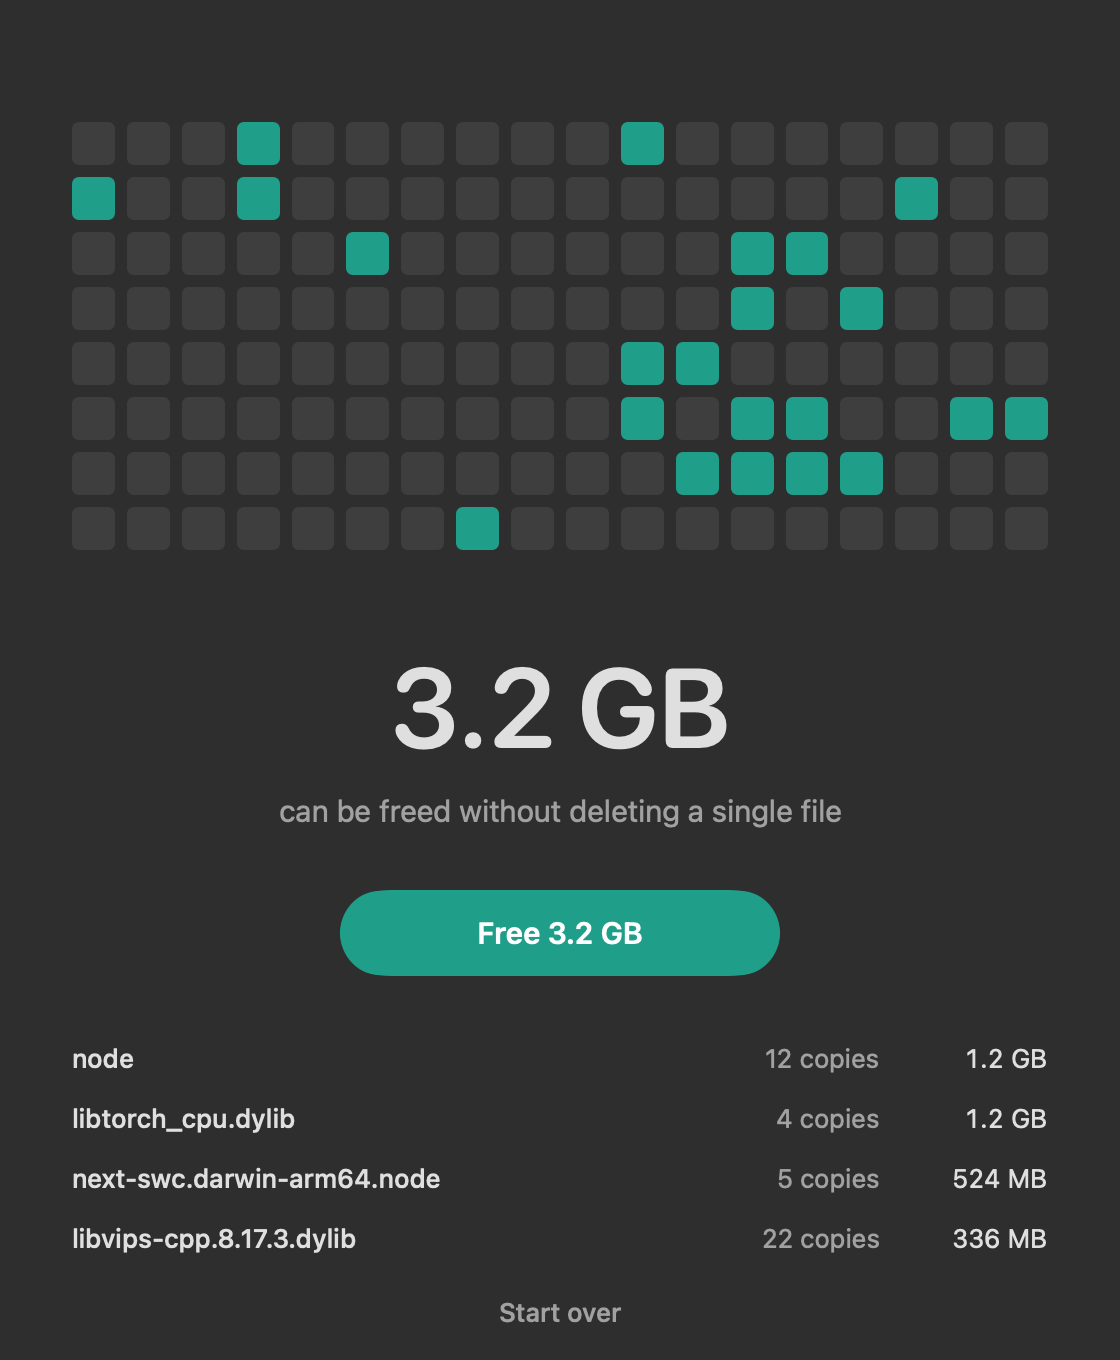
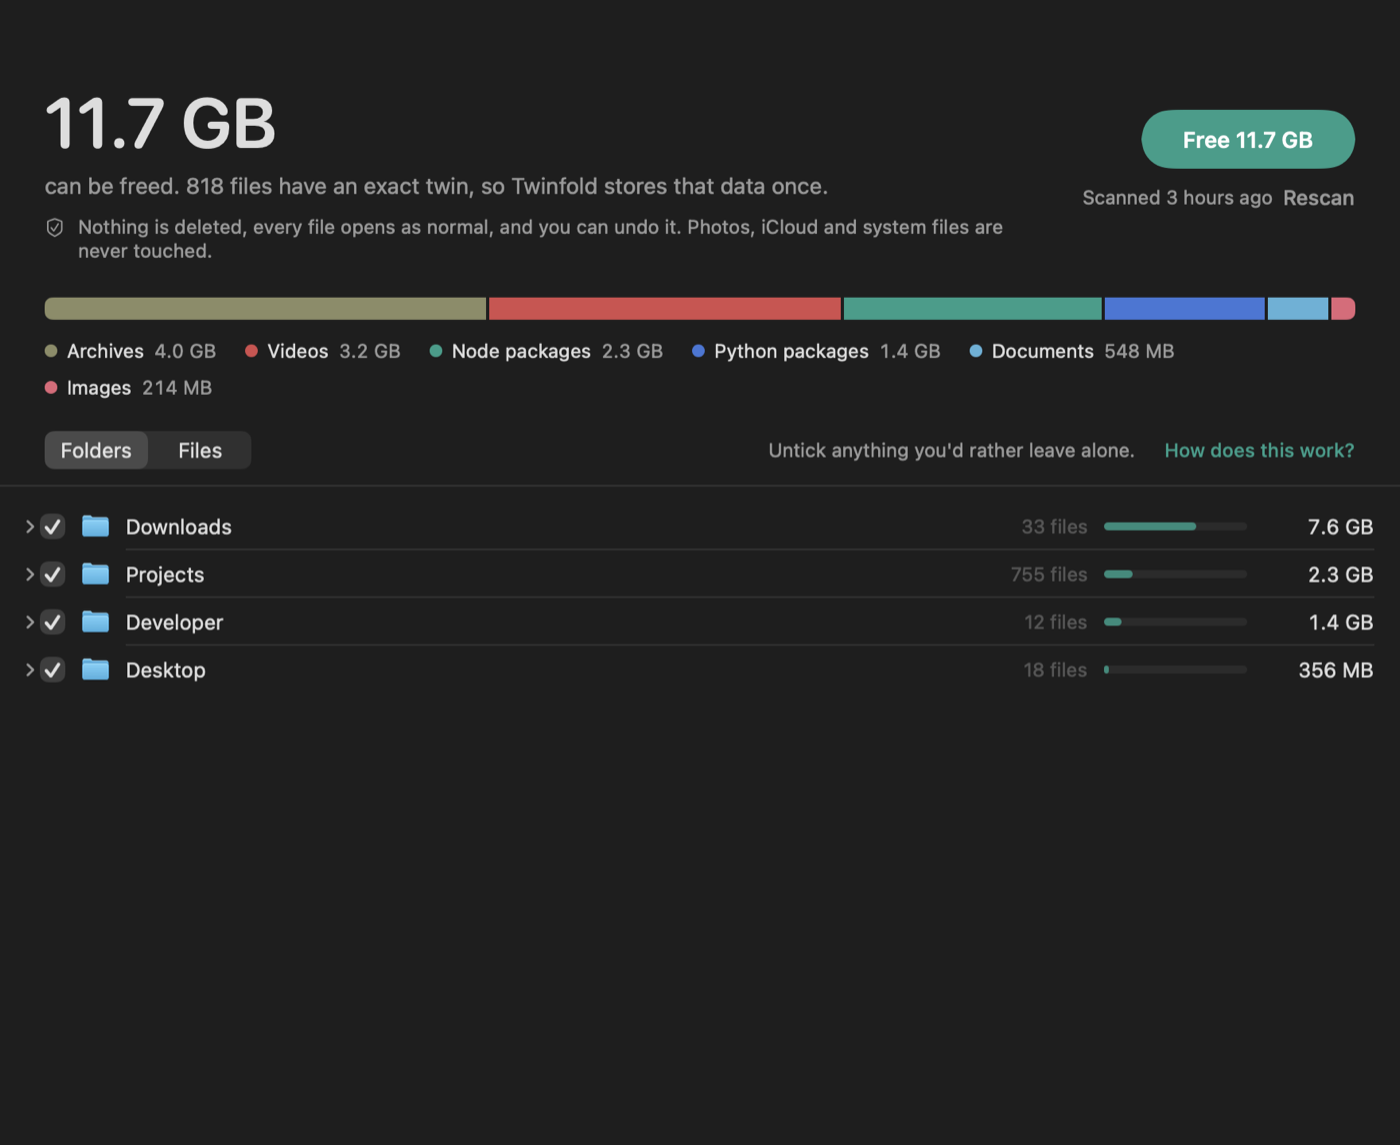
Second round of user-test fixes; keep awake while working
- Results say what sharing means in plain words and mention undo before the decision.
- Rows show how many identical files and the size of each; folder rows count files.
- Filter note says what Free still covers; help text is easier to read; popover links the source.
- Keep the Mac awake during scans and folds; ignore a fold's leftover temporary file.
- README screenshots now use demo data.

diff --git a/Sources/TwinfoldApp/Views.swift b/Sources/TwinfoldApp/Views.swift
@@ -209,11 +209,11 @@ struct ResultsView: View {
                     Text(Format.bytes(model.selectedBytes))
                         .font(.system(size: 44, weight: .semibold, design: .rounded))
                     Text(model.selectedBytes < model.totalBytes
-                        ? "selected of \(Format.bytes(model.totalBytes)) found. \(Format.count(model.selected.count, "identical file", "identical files")) will share space."
-                        : "can be freed by letting \(Format.count(model.selected.count, "identical file", "identical files")) share space.")
+                        ? "selected of \(Format.bytes(model.totalBytes)) found. \(Format.count(model.selected.count, "file has", "files have")) an exact twin; Twinfold stores that data once."
+                        : "can be freed. \(Format.count(model.selected.count, "file has", "files have")) an exact twin, so Twinfold stores that data once.")
                         .font(.system(size: 14))
                         .foregroundStyle(Color.quiet)
-                    Label("Every file stays where it is. Photos and Music libraries, iCloud and system files are never touched.",
+                    Label("Nothing is deleted, every file opens as normal, and you can undo it. Photos, iCloud and system files are never touched.",
                           systemImage: "checkmark.shield")
                         .font(.system(size: 12))
                         .foregroundStyle(Color.quiet)
@@ -235,7 +235,7 @@ struct ResultsView: View {
                     HStack(spacing: 6) {
                         if let date = model.scannedAt {
                             Text("Scanned \(date.formatted(.relative(presentation: .named)))")
-                                .foregroundStyle(.tertiary)
+                                .foregroundStyle(Color.quiet)
                         }
                         QuietButton(title: "Rescan") { model.scan() }
                     }
@@ -264,9 +264,9 @@ struct ResultsView: View {
                 Spacer()
                 Text(model.kindFilter == nil
                     ? "Untick anything you'd rather leave alone."
-                    : "Showing \(model.kindFilter!.rawValue.lowercased()) only. Free still covers everything ticked.")
+                    : "Showing \(model.kindFilter!.rawValue.lowercased()) only. Free still covers all \(Format.bytes(model.selectedBytes)) ticked.")
                     .font(.system(size: 12))
-                    .foregroundStyle(.tertiary)
+                    .foregroundStyle(model.kindFilter == nil ? Color.quiet : Color.primary)
                 HowItWorksButton()
             }
             .padding(.horizontal, 28)
@@ -347,7 +347,7 @@ struct FolderRow: View {
                 .truncationMode(.middle)
                 .foregroundStyle(included ? Color.primary : Color.quiet)
             Spacer(minLength: 16)
-            Text(Format.count(node.copies, "copy", "copies"))
+            Text(Format.count(node.copies, "file", "files"))
                 .font(.system(size: 12))
                 .foregroundStyle(.tertiary)
             SizeBar(fraction: Double(node.bytes) / Double(total), muted: !included)
@@ -438,7 +438,7 @@ struct FileGroupRow: View {
                 }
                 .foregroundStyle(included ? Color.primary : Color.quiet)
                 Spacer(minLength: 16)
-                Text("\(Format.count(group.clusters.count - 1, "copy", "copies")) × \(Format.bytes(group.size))"
+                Text("\(group.files.count) identical · \(Format.bytes(group.size)) each"
                     + (group.files.count > group.clusters.count
                         ? " · \(group.files.count - group.clusters.count) already sharing" : ""))
                     .font(.system(size: 12).monospacedDigit())
@@ -498,9 +498,9 @@ struct DoneView: View {
                     .controlSize(.large)
                 PrimaryButton(title: "Done") { model.reset() }
             }
-            Text("Undo gives every file its own copy of its data again.")
+            Text("Undo gives every file its own copy again, which uses the space again.")
                 .font(.system(size: 12))
-                .foregroundStyle(.tertiary)
+                .foregroundStyle(Color.quiet)
         }
     }
 }
@@ -569,6 +569,8 @@ struct HowItWorks: View {
             Text("Good to know: after sharing, deleting one copy frees less space than Finder shows, because its twins still use that data.")
             Text("Changed your mind? Undo gives every file its own copy again.")
                 .foregroundStyle(Color.quiet)
+            Link("Twinfold is open source: read how it works →", destination: URL(string: "https://github.com/Himanshu-Sangshetti/twinfold#is-it-safe")!)
+                .foregroundStyle(Color.fold)
         }
         .font(.system(size: 13))
         .fixedSize(horizontal: false, vertical: true)

diff --git a/Sources/TwinfoldApp/AppModel.swift b/Sources/TwinfoldApp/AppModel.swift
@@ -72,7 +72,9 @@ final class AppModel {
         compared = 0
         toCompare = 0
         let options = ScanOptions(roots: roots.map(\.path))
+        let activity = Self.keepAwake("Scanning for identical files")
         Task.detached(priority: .userInitiated) {
+            defer { ProcessInfo.processInfo.endActivity(activity) }
             let report = Scanner(options: options) { phase, done, total in
                 Task { @MainActor [weak self] in
                     guard let self else { return }
@@ -145,7 +147,9 @@ final class AppModel {
         foldTotal = groups.reduce(0) { $0 + $1.clusters.dropFirst().reduce(0) { $0 + $1.count } }
         foldedCount = 0
         phase = .folding
+        let activity = Self.keepAwake("Letting identical files share space")
         Task.detached(priority: .userInitiated) {
+            defer { ProcessInfo.processInfo.endActivity(activity) }
             let summary = Reclaimer { done, _, _ in
                 if done % 25 == 0 { Task { @MainActor [weak self] in self?.foldedCount = done } }
             }.reclaim(groups)
@@ -176,6 +180,11 @@ final class AppModel {
                 self.reset()
             }
         }
+    }
+
+    /// Keeps the Mac from idling to sleep (and the app from napping) while work is running.
+    nonisolated static func keepAwake(_ reason: String) -> NSObjectProtocol {
+        ProcessInfo.processInfo.beginActivity(options: [.userInitiated, .idleSystemSleepDisabled], reason: reason)
     }
 
     func reset() {

diff --git a/Sources/TwinfoldApp/Snapshot.swift b/Sources/TwinfoldApp/Snapshot.swift
@@ -20,6 +20,9 @@ enum Snapshot {
     static func capture(_ model: AppModel) async {
         let env = ProcessInfo.processInfo.environment
         guard let dir = env["TWINFOLD_CAPTURE"] else { return }
+        if let look = env["TWINFOLD_APPEARANCE"] {
+            NSApp.appearance = NSAppearance(named: look == "light" ? .aqua : .darkAqua)
+        }
         let out = URL(fileURLWithPath: dir)
         try? FileManager.default.createDirectory(at: out, withIntermediateDirectories: true)
         if let path = env["TWINFOLD_REPORT"], let report = ScanReport.load(from: URL(fileURLWithPath: path)) {

diff --git a/Sources/TwinfoldCore/Walker.swift b/Sources/TwinfoldCore/Walker.swift
@@ -82,6 +82,7 @@ struct Walker {
                 case UInt32(VDIR.rawValue):
                     if devid == device, !skip.contains(path), !Scanner.isProtectedBundle(path) { dirs(path) }
                 case UInt32(VREG.rawValue):
+                    if name.hasPrefix(".twinfold-") { continue }  // a fold's temporary clone
                     let stat = FileSystem.Stat(device: devid, inode: inode, size: size, links: nlink_t(links),
                                                flags: flags, uid: uid, mtime: mtime, ctime: ctime)
                     files(File(path: path, stat: stat))

diff --git a/README.md b/README.md
@@ -11,7 +11,7 @@
 <p align="center">
   <picture>
     <source media="(prefers-color-scheme: dark)" srcset="docs/images/results-dark.png">
-    <img src="docs/images/results-light.png" width="420" alt="Twinfold showing space that can be freed">
+    <img src="docs/images/results-light.png" width="720" alt="Twinfold showing where identical files take up space, by kind and by folder">
   </picture>
 </p>
 
@@ -22,7 +22,16 @@ Twinfold finds them and turns the copies into **clones**. Every file stays exact
 own name, dates and permissions, but the copies now share one set of blocks on disk. Edit one and only
 that one changes; macOS handles it automatically.
 
-On the Mac it was built on, Twinfold found **35 GB** to free, without deleting a single file.
+On the Mac it was built on, Twinfold found **36 GB** to free, without deleting a single file. It scans a
+home folder of 8.7 million files in about a minute, and you see exactly what will change before anything does:
+by kind, by folder, and file by file, with anything you'd rather leave alone a click away.
+
+<p align="center">
+  <picture>
+    <source media="(prefers-color-scheme: dark)" srcset="docs/images/files-dark.png">
+    <img src="docs/images/files-light.png" width="720" alt="Every set of identical files, with where each copy lives">
+  </picture>
+</p>
 
 ## Install
 

diff --git a/CHANGELOG.md b/CHANGELOG.md
@@ -7,6 +7,8 @@
 - Asks for confirmation before freeing; safety line next to the button; Undo is a real button.
 - Headline shows what's selected out of what was found; rows explain copies that already share space.
 - End-to-end tests for the command line and the app.
+- Plainer results text ("files have an exact twin"), undo mentioned before you decide, rows read "2 identical · 1.8 GB each".
+- Keeps the Mac awake while scanning or freeing; scans ignore leftover temporary files.
 - Results screen shows where the space is: a breakdown by kind, a folder tree and every duplicate set with each copy's location.
 - Untick folders or sets to leave them alone; the Free button follows the selection.
 - The last scan is kept, so results are still there after relaunching.
